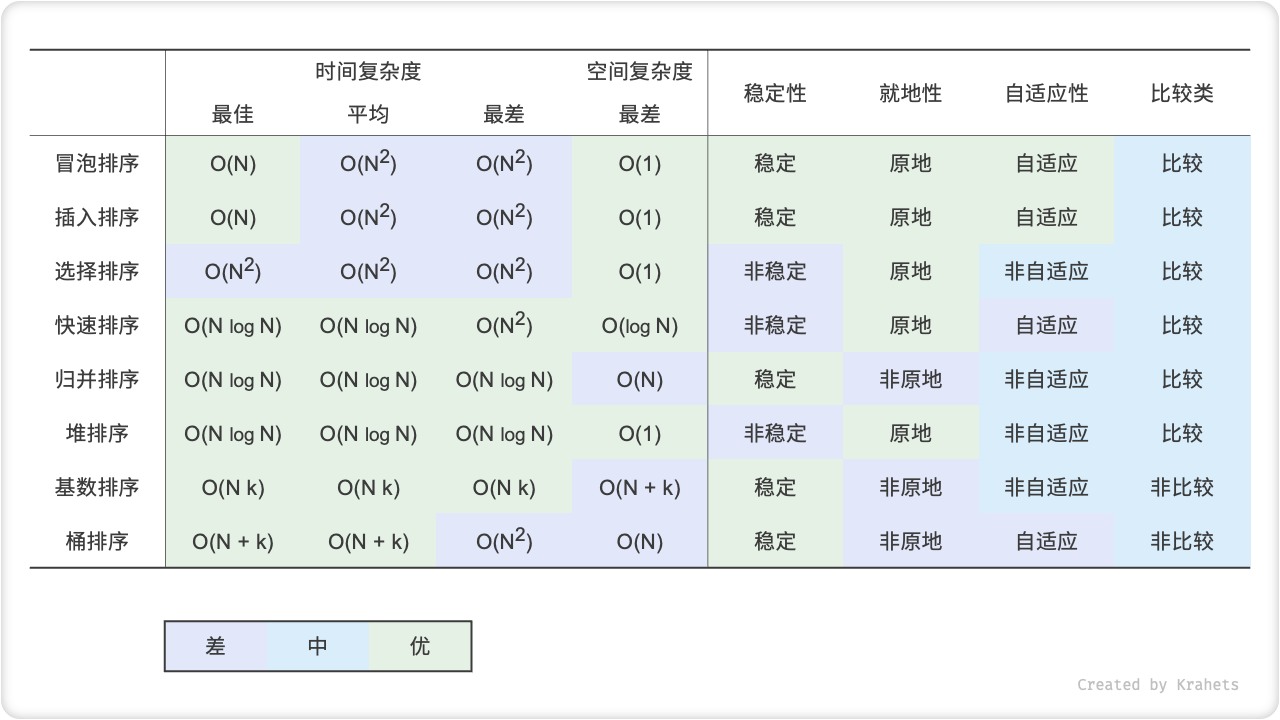
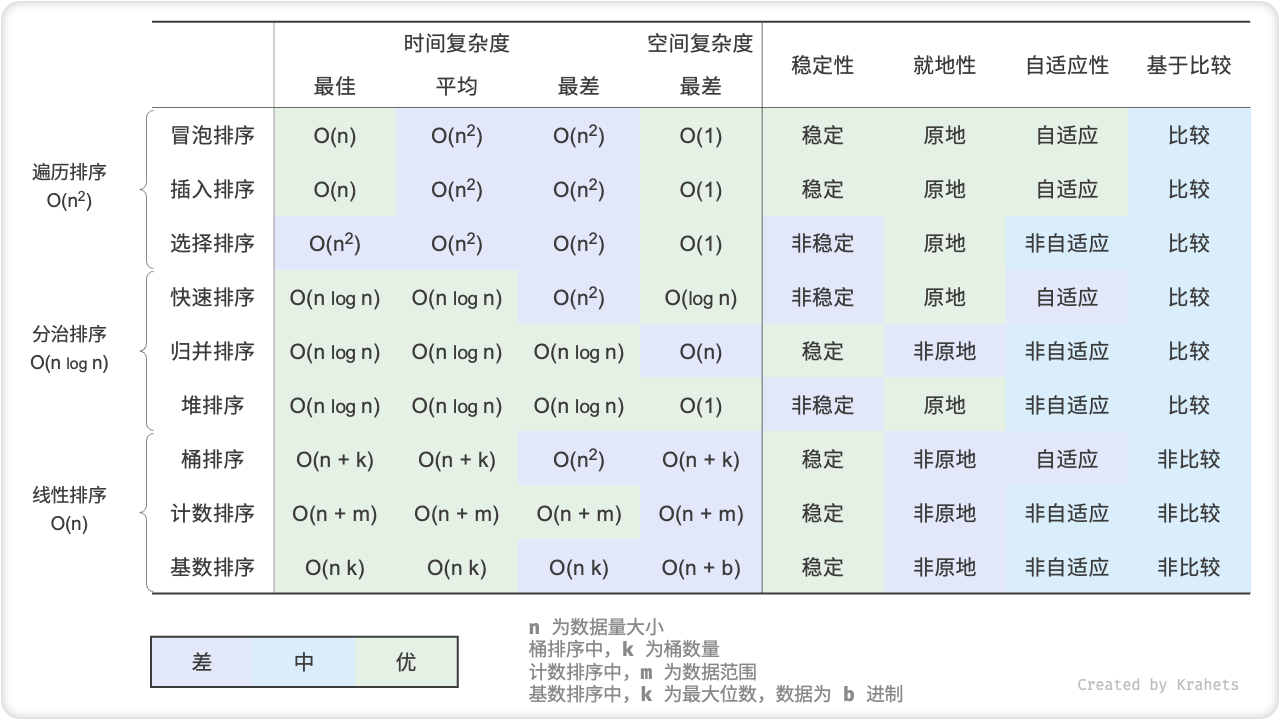
Update the summary of the sorting chapter.

diff --git a/docs/chapter_sorting/summary.md b/docs/chapter_sorting/summary.md
@@ -4,7 +4,9 @@
 - 插入排序每轮将待排序区间内元素插入至已排序区间的正确位置，从而实现排序。插入排序的时间复杂度虽为 $O(N^2)$ ，但因为总体操作少而很受欢迎，一般用于小数据量的排序工作。
 - 快速排序基于哨兵划分操作实现排序。在哨兵划分中，有可能每次都选取到最差的基准数，从而导致时间复杂度劣化至 $O(N^2)$ ，通过引入中位数基准数或随机基准数可大大降低劣化概率。尾递归方法可以有效减小递归深度，将空间复杂度优化至 $O(\log N)$ 。
 - 归并排序包含划分和合并两个阶段，是分而治之的标准体现。对于归并排序，排序数组需要借助辅助数组，空间复杂度为 $O(N)$ ；而排序链表的空间复杂度可以被优化至 $O(1)$ 。
-- 下图总结对比了各个排序算法的运行效率与特性。其中，桶排序中 $k$ 为桶的数量；基数排序仅适用于正整数、字符串、特定格式的浮点数，$k$ 为最大数字的位数。
+- 桶排序分为三步，数据分桶、桶内排序、合并结果，体现分治策略，适用于体量很大的数据。桶排序的难点在于数据的平均划分。
+- 计数排序是桶排序的一种特例，通过统计数据出现次数来实现排序；适用于数据量大但数据范围不大的情况，并且要求数据可以被转化为正整数。
+- 基数排序通过依次排序各位来实现数据排序，要求数据可以被表示为固定位数的数字。
 
 ![排序算法对比](summary.assets/sorting_algorithms_comparison.png)
 
